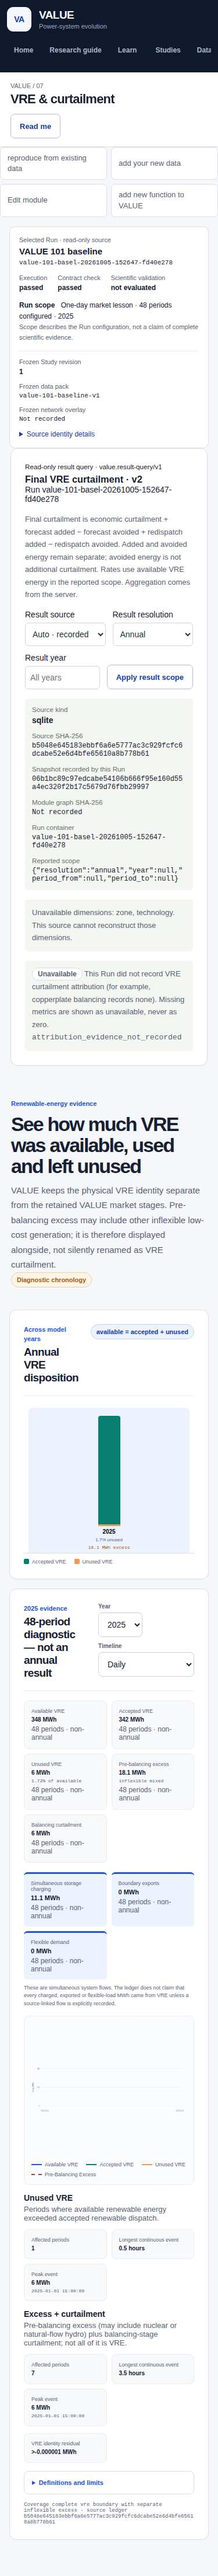
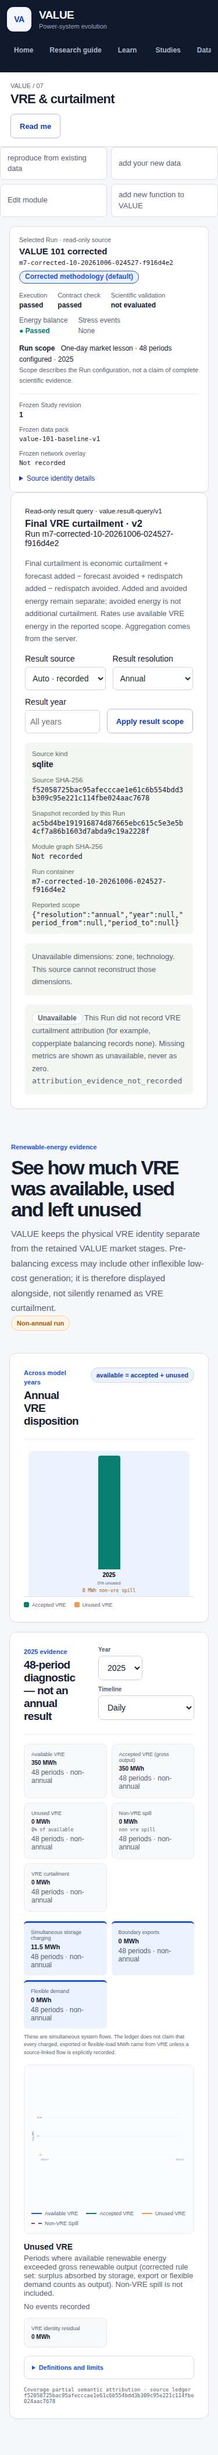
docs(p0): M7-P0-9-close report and result-view screenshots (spec 10)
- docs/dev/p0-reports/M7-P0-9-close.md: steps, files, tests, decisions,
  deviations (F-M7-1..14), the spec section 9 checklist and open issues.
- docs/dev/p0-ui-screens/: 12 scenes x 1280/375 px from a scratch instance
  with real Runs (corrected and doctoral VALUE 101, one day and two years;
  a corrected Run on the Release R2 forecast data with 48 stress periods; the
  pre-fix Release R2 Run; the VALUE 101 network Run). The M2 images of the
  same views are replaced.

diff --git a/docs/dev/p0-reports/M7-P0-9-close.md b/docs/dev/p0-reports/M7-P0-9-close.md
@@ -1,0 +1,109 @@
+# M7-P0-9-close 工作报告：P0-9 语义适配、stress event 界面、设计裁决与 S12 文档
+
+- 分支：直接提交在 `fix/review-2026-10-04`（INTEG），起点 `1f527e6`（设计方 2026-10-06 裁决）。
+- 解释器一律经 `build/bin/vpy`，Node 经 `build/bin/vnode`；浏览器测试用本机 chromium 1243（`VALUE_E2E_CHROMIUM`）。
+- 用户要求“基本顺利后迅速推进”：每个提交前跑受影响的测试与 `p0_gate quick`；另外跑了一次离线 e2e（带棘轮）、golden fast 与全部前端测试组，没有跑 `p0_gate full/nightly`（属 X0 S13 集成验收）。
+
+## 0 接手时的状态
+
+上一次尝试中断，工作树里有一组**已暂存、未提交**的改动（16 个文件），内容是 M2 界面审查小问题 1–3。我逐项核对：
+
+- 小问题 1：`unitCostText` 按 `system_cost_definition_id` 选 `served` / `generated` / `(basis not recorded)`，与 `model_runner._frontend_results` 的实际口径一致（有 CEM 账时取 `cem_system_cost_gbp_per_mwh_served`，遗留口径取 `Cost_per_MWh_GBP`，即 total_system_cost / total_energy_generated）。
+- 小问题 2：新增状态词 `stopped`（`Stopped · n%`），`Withheld` 只留给 Q14。
+- 小问题 3：`result_queries` 对“已取消或失败、缺少声明年份”的 Run 返回 `unavailable`。
+
+这些改动正确、有测试，quick gate 通过，因此全部保留，作为第一个提交；没有丢弃任何内容。
+
+## 1 提交
+
+| 提交 | 内容 |
+|---|---|
+| `f267219` fix(results) | M2 小问题 1–3（接手的暂存改动） |
+| `f002c3e` fix(ui) | M2 小问题 4–6：孤立点画成圆点（`seriesShapes`）、无事件组显示 `No events recorded`、窗口摘要网格改为固定三列（1280 px 无空白格）、`server.py` PEP 8 空行 |
+| `aab6134` feat(ui) | F-P04-1…5、F-P09-6：下界 `≥`（状态条、stress 提示、窗口卡共用 `shortfallDisplay`）、`● Conformant`、gate 失败 Callout（列出各 gate）、`Annual results not published`、Inspect 原始残差面板、Q14 与 gate 的 reason code |
+| `dbccf51` feat(market) | 规格 4.4：全年 stress event 读模型 `query_stress_events` 与接口 `GET /api/runs/<id>/market/stress-events`；Market replay 中的列表（分页 50、数值排序、Replay →）；`Show stress events` 打开该列表；网络页可靠性列表加指引 |
+| `b7ba862` feat(results) | P0-6/P0-7 语义适配：C30（native 运营成本含 VoLL，读取 `physical_operating_cost_detail_gbp`）、C20（corrected 列语义与 `corrected_unused_vre`）、UI 契约夹具重新生成 |
+| `68c6fa0` feat(data) | F-P05A-1：CSV 映射的 Currency / EUR per GBP / FX basis / Price year、`GF_MAPPING_FX` 字段错误、预览原值与换算值并排（后端审阅报告增加 `source_sample_rows`、`fx`） |
+| `6544b04` feat(network) | 规格 4.6 最后一条（F-P08-1、F-P09-8）：运行期 fallback 审计 caution Callout |
+| `2702d18` docs(p09) | P0-9 S12：字段映射、契约增量、MARKET_LEDGER、USER_GUIDE 中英、CHANGELOG、偏差记录 F-M7-1…14、文档一致性测试 |
+| `a691c0b` fix(ui) | e2e 发现：stress 列表收到非预期响应体时整页崩溃 → 校验后显示错误框；截图发现：成本构成表继承全局 `table { min-width: 800px }`，使 Runs 页在 1280 px 下溢出 227 px → `min-width: 0` |
+| （本提交）docs(p0) | 本报告与 `docs/dev/p0-ui-screens/` 截图 |
+
+## 2 实现要点
+
+### 2.1 stress event（规格 2.3(4)、3.1、3.3、4.4；决策 A2）
+
+后端字段自 M2/M4 起已存在（run 级 `stress`、replay 窗口的 `shortfall_mwh`/`stress_periods`/`shortfall_basis`/`shortfall_upper_mwh`、账本 `stress_event` 表）。本单元补齐界面：
+
+- 状态条 Stress events 字段与 Callout 4：沿用 M2b 的实现，下界按 F-P04-1 加 `≥`，悬停给上界。
+- 窗口卡 `Shortfall` 与 `● n stress periods`，图上 4 px 琥珀带与图例（M2 已有，本单元核对并加下界显示）。
+- 4.4 全年列表：新读模型只读 `stress_event` 表，没有该表的旧账本返回 `status=not_recorded`，界面说明“不记录”，不说“没有事件”；空列表文案沿用 4.4 的覆盖率规则。列表位置的偏差见 F-M7-4。
+- 不改调度，不在前端做任何减法（A2、规格原则 1 与验收清单第 9 条）。
+
+### 2.2 语义适配（计划 4.9 集成修订、C20/C29/C30）
+
+- **成本定义 v2（P0-7）**：Runs 页早已读取 `ror_hydro_compatibility_capital_gbp`（P0-7 S8 的实际键名），memo 行文案按 F-P09-7；只有 corrected 口径把兼容资本移出头条时该字段才非空，doctoral 为 null，不显示 memo 行。
+- **VoLL 计入 operating（P0-6 S4，C30）**：M2 的 `VOLL_BASIS_BY_LEDGER_LINE` 把 `operation.generation_import_and_reliability` 标为“只有分区时含 VoLL”，P0-6 之后 native PSM 的这一行在铜板下也含“记录缺电 × VoLL”。现在 model_runner 按年读取 `orchestrator_results[].market.extensions.physical_operating_cost_detail_gbp`，有 `blackout_reliability` 即判为含 VoLL，并导出 VoLL 部分与单价供提示使用。`test_native_mechanism_scope` 中 C2（native 铜板）的旧断言 `False` 已过时，改为 `True`。
+- **corrected VRE 事件口径（C20）**：读取账本声明的 `curtailment_semantics`；corrected 下 `event_basis=corrected_unused_vre`，不再给出“excess + curtailment”组；VRE 页标签改为 Non-VRE spill / VRE curtailment / Accepted VRE (gross output)。doctoral 不变。
+- **边界边际值（P0-8b）**：M6 已完成（F-P09-9），本单元核对无需再改。
+
+### 2.3 设计裁决
+
+M2 小问题 1–6、F-P04-1…5、F-P09-5…7、F-P05A-1 全部实现；F-P09-5 为“批准”，无需改动。与裁决字面不完全一致的地方都记入 `P0_FRONTEND_DEVIATIONS.md` 的 M7 一节（F-M7-1…14），需设计方确认的有：F-M7-4（stress 列表放在 Market replay）、F-M7-7（各 gate 的一句话文案）、F-M7-10（corrected VRE 标签文案）、F-M7-12（fallback Callout 标题与说明句）。
+
+## 3 规格第 9 节验收清单
+
+| # | 检查 | 结果 |
+|---|---|---|
+| 1 | 七个视图（含 Runs 页内的 Compare）搜不到 `£0/MWh`、`0 TWh`、`valid single-node`、`Result invalid`、`Clearing price` | 截图脚本对 24 张截图的页面文本逐一检索：0 命中 |
+| 2 | 缺电 Run：窗口卡 Shortfall 与 stress 时段数、状态条 Stress events、图上琥珀带 | 通过（`market-replay-*`、`m7-show-stress-events-*`：Release R2 预测数据的修正口径新 Run，48 期、779.1 MWh，exact） |
+| 3 | doctoral 被 withheld：Withheld Callout、无年度合计、Inspect/导出可用 | 通过（`m7-runs-doctoral-withheld-*`，两年 Run，`GF_RESULTS_WITHHELD_RAW_INVARIANTS_FAILED`） |
+| 4 | 修复前旧 Run：`Methodology not recorded`、`Superseded`，无绿色 passed | 通过（`m7-run-context-r2-prefix-*`，并显示 `≥ 571 MWh`） |
+| 5 | 6 个结果视图都有口径徽章 | 通过（Run 上下文条在全部 Run 视图出现；SSR 与 `run-context-methodology` e2e 4/4） |
+| 6 | 新元素无 < 12 px 字号 | 通过（CSS guard，新增 `residual-panel.css` 已加入扫描名单） |
+| 7 | 键盘与 focus-visible；axe critical/serious | 新列表加了 `:focus-visible`；`market-visibility` e2e 的 axe 检查通过 |
+| 8 | 375 px 新组件不引起页面级横向滚动 | 新组件自身不溢出；页面级溢出来自旧侧栏导航与旧表格（逐元素排查确认），同 F-P09-13，记 F-M7-13。1280 px 下 Runs 页的溢出由本单元修复 |
+| 9 | 前端不做物理量减法 | 通过（frontend guard；EUR 原值由后端报告，不反算） |
+
+## 4 测试与结果
+
+| 测试 | 结果 |
+|---|---|
+| `p0_gate quick`（每个提交前） | 共运行 12 次，每个提交前最后一次均为 `passed`。另有两次未通过：一次因工作树中的临时截图脚本使发布清单过期（删除后重跑通过）；一次因我提前删除了 gate 的 TMPDIR，`tests/ui-gateway.test.mjs` 挂起，按 PID 停止本人启动的该次 gate 进程后重建目录重跑通过 |
+| 前端 unit / render / harness / source-contracts | 117 / 32 / 3 / 63，全部通过 |
+| 新增前端测试 | `stress-events-view`、`csv-mapping-fx`、`fallback-audit-view`；`vre-view`（圆点、无事件、corrected 标签）、`result-metrics`（单位成本口径、VoLL 提示）、`run-context-bar`（F-P04-1…5 的 SSR）、`network-coverage`、`reason-codes`；`csv-mapping-editor` 浏览器 harness 新增 EUR 流程 |
+| 新增后端测试 | `test_stress_events_query`（3）、`test_p09_result_view_docs`（2）、`test_result_queries`（取消/失败归档 Run 为 unavailable）、`test_native_mechanism_scope`（VoLL 明细）、`test_data_mapping`（`source_sample_rows`、`fx`） |
+| 受影响后端模块 | `test_result_advisories`、`test_market_replay`、`test_server_presentation`、`test_ui_contract_fixtures`、`test_results_summary`、`test_p06_corrected_acceptance`、`test_native_mechanism_scope`、`test_data_mapping`、`test_result_queries`：全部 OK |
+| UI 契约夹具 | `--check` 只报预期差异（`curtailment_semantics` 键；value-101-day 的 corrected 事件口径），`--write` 后一致，207,712 字节 |
+| 离线 e2e（带棘轮） | 37 passed，5 个已登记失败，4 skipped，0 新失败（首次运行发现 stress 列表崩溃，已修复） |
+| golden `capture.py check --tier fast` | passed |
+| 截图 | scratch 实例（API 18966、UI 18967，VALUE_DATA_HOME 在 scratch）上的真实 Run，12 个场景 × 1280/375 共 24 张 JPEG，覆盖并更新了 M2 的同名截图，新增 `m7-*` 截图；目录共 6.2 MB |
+
+## 5 采用的决策
+
+- **A2**：stress 只记录、不阻断、不改调度；界面不做减法。
+- **Q14**：Withheld 只用于复现口径原始不变量未全通过；读取实际字段 `result_publication`（F-M7-1）。
+- **Q6**：价格按口径标注（M2 已实现，本单元未改）。
+- **P0-4 S7 gate**：production 口径 gate 失败用红色，与 Q14 的琥珀 Withheld 分开。
+- **A7 / P0-7**：风光储 FOM 与兼容资本只作 memo，不进头条；界面只显示后端给出的 memo 字段。
+
+## 6 偏差
+
+见 `docs/dev/P0_FRONTEND_DEVIATIONS.md` 的“M7「P0-9 收口」”一节（F-M7-1…14）。另外两点：
+
+1. 计划 S12 写“用 grep 核对文档与夹具一致”，我实现为单元测试 `test_p09_result_view_docs`：字段映射表中每个字段都必须出现在读模型源码或契约夹具中，并核对用户指南中英两版的关键短语。
+2. 新增 API（stress-events）与审阅报告字段（`source_sample_rows`、`fx`）是只读读模型的增量，不改任何账本写入方，符合计划 4.9“只改读模型、序列化、前端和测试”。
+
+## 7 遗留问题
+
+- F-M7-4、F-M7-7、F-M7-10、F-M7-12 的文案或位置需设计方确认。
+- F-P04-4 的 Callout 只有 SSR 测试，没有真实 Run 截图（scratch 中没有 gate 失败的修正口径 Run）。
+- 375 px 下的页面级横向滚动来自旧布局（侧栏导航、Inspect 旧表格、merit order 阶段选择），属做法二。
+- `p0_gate full/nightly` 与全量 e2e 留给 X0 S13 集成验收。
+
+## 8 环境与安全核对
+
+- INSTALLED：`find … -newer install-receipt.json -type f ! -path '*/state/*' ! -path '*/logs/*'` 只列出在线 supervisor 的 `.supervisor.lock`（按惯例排除，非本单元写入）；`diagnose-value --prefix …` 输出 “Installation integrity and runtime checks passed.”。从 INSTALLED 只做了只读复制（Release R2 的 Study、数据包与一个 Run，用于截图），没有写入。
+- 没有连接 8766/8800，没有发送任何信号给作者的进程；只按记录的 PID 停止了本单元自己启动的 API（18966）与 UI（18967）服务；e2e runner 在 18800/18766 自启自停，结束后端口空闲。没有使用 pkill/killall。
+- 工作树无 `.pyc`；SRC 工作树干净，main 仍为 `35aadb3`；没有 push。
+- scratch：VALUE_DATA_HOME（含两年 Run，约 2.1 GB）已删除；`build/m7p09` 剩约 0.1 MB 的辅助脚本。
